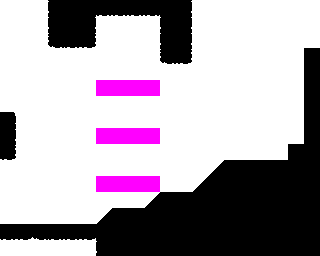
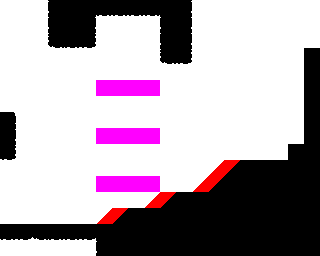
End of hill climb.
# 언덕 등반 끝.

Changed region(s): [[0.5938, 0.625, 0.75, 0.75], [0.4375, 0.75, 0.5625, 0.8125], [0.3125, 0.8125, 0.4062, 0.875]]

diff --git a/DirectXK/Contents/Player_Debug.cpp b/DirectXK/Contents/Player_Debug.cpp
@@ -14,8 +14,8 @@ void APlayer::t_DeBugFunction(float _DeltaTime)
 	//float4 Leng = CulMousPos - PlayerPos;
 	float4 Leng = MousePosWorld - PlayerPos;
 	//PlayerToMouseDir = Leng.Normalize3DReturn();
-	FVector TesetRenserLOne = TestRenderer_1->GetLocalPosition();
-	FVector TesetRenserWOne = TestRenderer_1->GetWorldPosition();
+	//FVector TesetRenserLOne = TestRenderer_1->GetLocalPosition();
+	//FVector TesetRenserWOne = TestRenderer_1->GetWorldPosition();
 	std::string s_IsWall = "";
 	std::string s_IsHill = "";
 	if (true == IsWall)
@@ -44,8 +44,10 @@ void APlayer::t_DeBugFunction(float _DeltaTime)
 	std::string JumpVectorMsg = std::format("JumpVector : {}\n", JumpVector.ToString());
 	std::string GravityVectorMsg = std::format("GravityVector : {}\n", GravityVector.ToString());
 	std::string DashVectorMsg = std::format("DashVector : {}\n", DashVector.ToString());
-	std::string T_Render_L = std::format("T_Render_L : {}\n", TesetRenserLOne.ToString());
-	std::string T_Render_W = std::format("T_Render_W : {}\n", TesetRenserWOne.ToString());
+	//std::string T_Render_L = std::format("T_Render_L : {}\n", TesetRenserLOne.ToString());
+	//std::string T_Render_W = std::format("T_Render_W : {}\n", TesetRenserWOne.ToString());
+	std::string T_PlayerPoint_1 = std::format("T_Render_L1 : {}\n", V_Test_PlayerPoint_1.ToString());
+	std::string T_PlayerPoint_2 = std::format("T_Render_L2 : {}\n", V_Test_PlayerPoint_2.ToString());
 
 
 	UEngineDebugMsgWindow::PushMsg(StateName);
@@ -53,8 +55,8 @@ void APlayer::t_DeBugFunction(float _DeltaTime)
 	//UEngineDebugMsgWindow::PushMsg(Msg2);
 	//UEngineDebugMsgWindow::PushMsg(Msg3);
 	UEngineDebugMsgWindow::PushMsg(Msg4);
-	UEngineDebugMsgWindow::PushMsg(T_Render_L);
-	UEngineDebugMsgWindow::PushMsg(T_Render_W);
+	//UEngineDebugMsgWindow::PushMsg(T_Render_L);
+	//UEngineDebugMsgWindow::PushMsg(T_Render_W);
 	//UEngineDebugMsgWindow::PushMsg(Msg5);
 	//UEngineDebugMsgWindow::PushMsg(Msg6);
 	//UEngineDebugMsgWindow::PushMsg(Msg7);
@@ -64,6 +66,8 @@ void APlayer::t_DeBugFunction(float _DeltaTime)
 	UEngineDebugMsgWindow::PushMsg(CalVectorsMsg);
 	UEngineDebugMsgWindow::PushMsg(s_IsWall);
 	UEngineDebugMsgWindow::PushMsg(s_IsHill);
+	UEngineDebugMsgWindow::PushMsg(T_PlayerPoint_1);
+	UEngineDebugMsgWindow::PushMsg(T_PlayerPoint_2);
 	//UEngineDebugMsgWindow::PushMsg(RunVectorMsg);
 	//UEngineDebugMsgWindow::PushMsg(JumpVectorMsg);
 	//UEngineDebugMsgWindow::PushMsg(GravityVectorMsg);

diff --git a/DirectXK/Contents/Player.cpp b/DirectXK/Contents/Player.cpp
@@ -12,13 +12,13 @@ APlayer::APlayer()
 	PlayerRenderer->SetPivot(EPivot::BOT);
 	PlayerRenderer->SetupAttachment(Root);
 
-	TestRenderer_1 = CreateDefaultSubObject<USpriteRenderer>("Renderer");
-	TestRenderer_1->SetPivot(EPivot::BOT);
-	TestRenderer_1->SetupAttachment(Root);
+	//TestRenderer_1 = CreateDefaultSubObject<USpriteRenderer>("Renderer");
+	//TestRenderer_1->SetPivot(EPivot::BOT);
+	//TestRenderer_1->SetupAttachment(Root);
 
-	TestRenderer_2 = CreateDefaultSubObject<USpriteRenderer>("Renderer");
-	TestRenderer_2->SetPivot(EPivot::BOT);
-	TestRenderer_2->SetupAttachment(Root);
+	//TestRenderer_2 = CreateDefaultSubObject<USpriteRenderer>("Renderer");
+	//TestRenderer_2->SetPivot(EPivot::BOT);
+	//TestRenderer_2->SetupAttachment(Root);
 
 	Collision = CreateDefaultSubObject<UCollision>("Collision");
 	Collision->SetupAttachment(Root);
@@ -46,15 +46,6 @@ void APlayer::BeginPlay()
 	float Size = UContentsConstValue::AutoSizeValue; // const
 	PlayerRenderer->SetAutoSize(Size, true);
 	PlayerRenderer->SetOrder(ERenderOrder::Player);
-
-	TestRenderer_1->SetAutoSize(Size, true);
-	TestRenderer_1->SetOrder(ERenderOrder::Player);
-	TestRenderer_1->SetSprite("TestPointImage.png");
-	TestRenderer_1->SetActive(false);
-	TestRenderer_2->SetAutoSize(Size, true);
-	TestRenderer_2->SetOrder(ERenderOrder::Player);
-	TestRenderer_2->SetSprite("TestPointImage.png");
-	TestRenderer_2->SetActive(false);
 
 	Weapone = GetWorld()->SpawnActor<APlayerWeapon>("Weapon");
 	//Weapone->Weapon_Renderer->SetDir(EEngineDir::Right);

diff --git a/DirectXK/Contents/Player_State.cpp b/DirectXK/Contents/Player_State.cpp
@@ -137,9 +137,13 @@ void APlayer::RunTick(float _DeltaTime)
 
 	if (true == IsPress('A'))
 	{
-		if (true == IsWall && false == IsHill)
+		if (true == IsWall)
 		{
 			RunVector = FVector::Zero;
+		}
+		else if (true == IsHill)
+		{
+			RunVector = (FVector::Left + FVector::Up) * RunSpeed;
 		}
 		else
 		{
@@ -148,16 +152,18 @@ void APlayer::RunTick(float _DeltaTime)
 	}
 	if (true == IsPress('D'))
 	{
-		if (true == IsWall && false == IsHill)
+		if (true == IsWall)
 		{
 			RunVector = FVector::Zero;
+		}
+		else if (true == IsHill)
+		{
+			RunVector = (FVector::Right + FVector::Up) * RunSpeed;
 		}
 		else
 		{
 			RunVector = FVector::Right * RunSpeed;
 		}
-		
-		//RunVector = (FVector::Right + FVector::Up) * RunSpeed;
 	}
 
 	if (true == IsDown(VK_SPACE) || true == IsDown('W'))

diff --git a/DirectXK/Contents/Player.h b/DirectXK/Contents/Player.h
@@ -89,11 +89,15 @@ private:
 	bool IsGround = false;
 	bool IsWall = false;
 	bool IsHill = false;
+#ifdef _DEBUG
+	FVector V_Test_PlayerPoint_1 = FVector::Zero;
+	FVector V_Test_PlayerPoint_2 = FVector::Zero;
+#endif
 
 	UDefaultSceneComponent* Root = nullptr;
 	USpriteRenderer* PlayerRenderer = nullptr;
-	USpriteRenderer* TestRenderer_1 = nullptr;
-	USpriteRenderer* TestRenderer_2 = nullptr;
+	//USpriteRenderer* TestRenderer_1 = nullptr;
+	//USpriteRenderer* TestRenderer_2 = nullptr;
 	UCollision* Collision = nullptr;
 	EPlayerState ActorState = EPlayerState::Idle;
 	UStateManager State;
